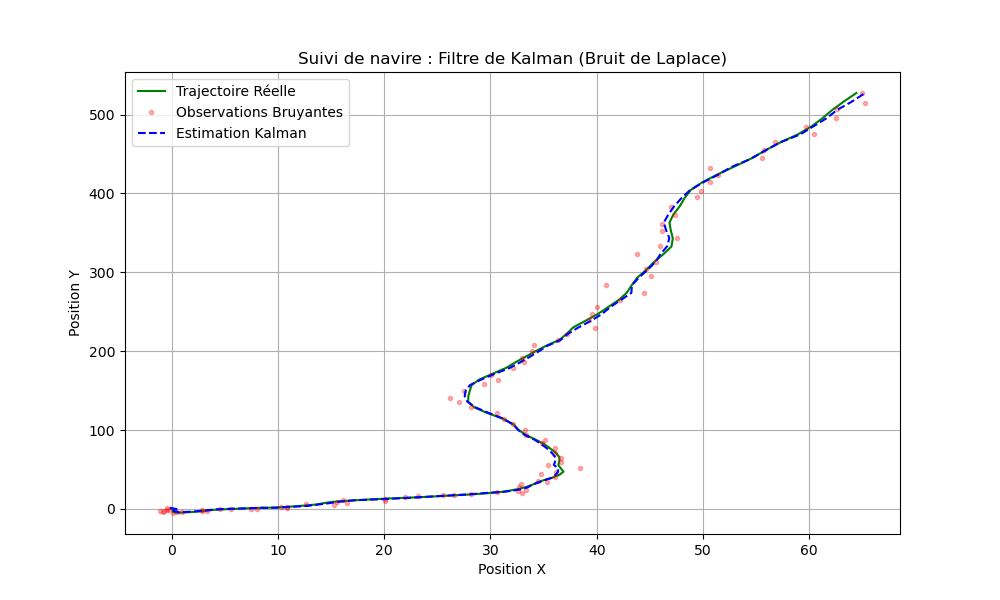
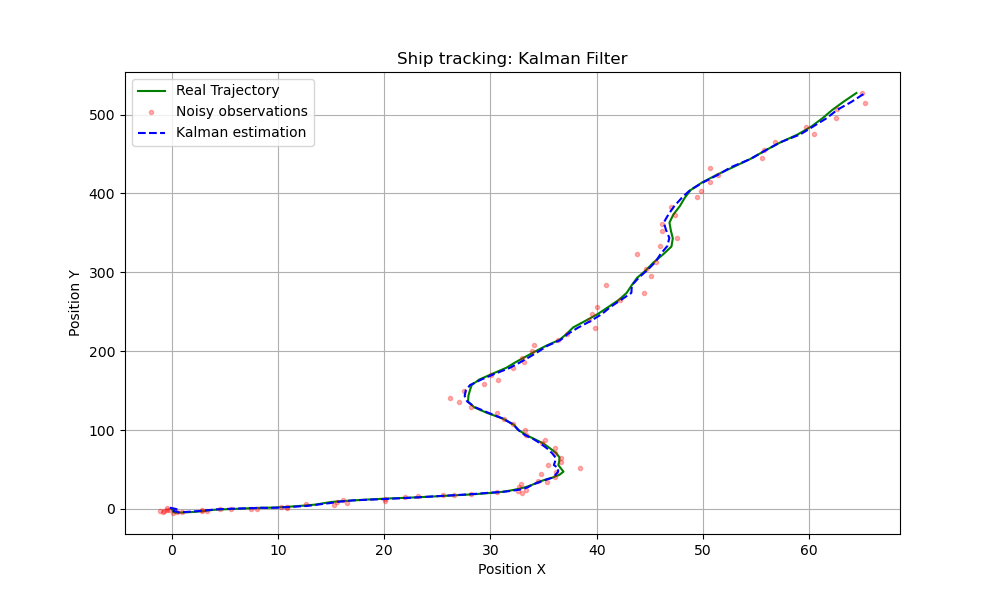
merged both filters

Changed region(s): [[0.155, 0.12, 0.341, 0.24], [0.31, 0.09, 0.744, 0.12]]

diff --git a/part2/part2.py b/part2/part2.py
@@ -8,6 +8,69 @@ u_input = np.loadtxt("Input.txt")
 s_true = x_true_all[:, :2]
 
 
+def kalman_filter(T=100, dt=0.1):
+    # Paramètres du projet
+    mu_laplace = 1.0
+    b_laplace = 1.0
+    sigma_v2 = 1.0
+
+    # 2. Définition des matrices du modèle (Espace d'état)
+    # État X = [x, y, vx, vy]
+    A = np.array([[1, 0, dt, 0], [0, 1, 0, dt], [0, 0, 1, 0], [0, 0, 0, 1]])
+
+    B = np.array([[0.5 * dt**2, 0], [0, 0.5 * dt**2], [dt, 0], [0, dt]])
+
+    # Matrice G pour le bruit d'accélération (c'est la même que b prcq le bruit est une accélération)
+    G = B.copy()
+
+    # Matrice d'observation H
+    H = np.array([[1, 0, 0, 0], [0, 1, 0, 0]])
+
+    # 3. Covariances du bruit
+    # Q = 2 * b^2 * G * G^T
+    Q = 2 * (b_laplace**2) * (G @ G.T)
+
+    # R = sigma_v^2 * I (2x2)
+    R = np.eye(2) * sigma_v2
+
+    # 4. Initialisation du filtre
+    X_hat = np.array([10.0, 10.0, 10.0, 10.0])  # Moyennes s0 et v0
+    P = np.diag([50.0, 50.0, 10.0, 10.0])  # P0_pos=50, P0_vel=10
+
+    # Stockage des résultats
+    estimations = []
+
+    # 5. Boucle du Filtre de Kalman
+    for k in range(T):
+        u_k = u_input[k]
+        z_k = x_obs[k]
+
+        # --- ÉTAPE DE PRÉDICTION ---
+        # Modification pour le bruit de Laplace non centré (mu=1)
+        shift_term = G @ np.array([mu_laplace, mu_laplace])
+        X_pred = A @ X_hat + B @ u_k + shift_term
+        P_pred = A @ P @ A.T + Q
+
+        # --- ÉTAPE DE MISE À JOUR (Correction) ---
+        S = H @ P_pred @ H.T + R
+        K = P_pred @ H.T @ np.linalg.inv(S)
+
+        X_hat = X_pred + K @ (z_k - H @ X_pred)
+        P = (np.eye(4) - K @ H) @ P_pred
+
+        estimations.append(X_hat[:2])  # On garde (x, y)
+
+    estimations = np.array(estimations)
+
+    # --- 4. PERFORMANCE ---
+    error_vectors = s_true - estimations
+    squared_norms = np.sum(error_vectors**2, axis=1)
+    mse_kalman = np.mean(squared_norms)
+    error_over_time = np.sqrt(squared_norms)
+
+    return mse_kalman, error_over_time, estimations
+
+
 def SIR_particle_filter(N=1000, T=100, dt=0.1):
     """
     N = Number of particles
@@ -140,22 +203,31 @@ def main():
     os.makedirs(RESULTS, exist_ok=True)
 
     N_sizes = [10, 100, 1000, 5000]
-    M = 100
-    T = 100
+    M, T, dt = 100, 100, 0.1
     global_mse_results = []
 
-    # Figure for Error over Time
-    fig_error, ax_error = plt.subplots(figsize=(10, 6))
+    # --- 1. KALMAN FILTER EXECUTION AND PLOTTING ---
+    print("Running Kalman Filter...")
+    mse_k, err_k, estimations_k = kalman_filter(T, dt)
 
-    # Figure for Trajectory Comparison
+    plt.figure(figsize=(10, 6))
+    plt.plot(s_true[:, 0], s_true[:, 1], "g-", label="Real Trajectory")
+    plt.plot(x_obs[:, 0], x_obs[:, 1], "r.", alpha=0.3, label="Noisy observations")
+    plt.plot(estimations_k[:, 0], estimations_k[:, 1], "b--", label="Kalman estimation")
+    plt.xlabel("Position X")
+    plt.ylabel("Position Y")
+    plt.title("Ship tracking: Kalman Filter")
+    plt.legend()
+    plt.grid(True)
+    plt.savefig(os.path.join(RESULTS, "Kalman_Tracking_Result.png"))
+    plt.show()
+
+    # --- 2. SIR PARTICLE FILTERS EXECUTION ---
+    fig_error, ax_error = plt.subplots(figsize=(10, 6))
     fig_traj, ax_traj = plt.subplots(figsize=(10, 8))
+
     ax_traj.plot(
-        s_true[:, 0],
-        s_true[:, 1],
-        "g-",
-        linewidth=3,
-        label="Vraie trajectoire",
-        zorder=5,
+        s_true[:, 0], s_true[:, 1], "g-", linewidth=3, label="Real trajectory", zorder=5
     )
     ax_traj.scatter(
         x_obs[:, 0],
@@ -163,41 +235,36 @@ def main():
         color="red",
         s=5,
         alpha=0.2,
-        label="Observations bruitées",
+        label="Noisy observations",
         zorder=1,
     )
 
     for N in N_sizes:
         print(f"Running simulation for N = {N} particles...")
-
         all_MSE = np.empty(M)
         all_errors_over_time = np.empty((M, T))
         all_trajectories = np.empty((M, T, 2))
 
         for i in range(M):
             all_MSE[i], all_errors_over_time[i], all_trajectories[i] = (
-                SIR_particle_filter(N, T)
+                SIR_particle_filter(N, T, dt)
             )
 
-        # Calculate Averages
         avg_mse = np.mean(all_MSE)
         global_mse_results.append(avg_mse)
         avg_error_over_time = np.mean(all_errors_over_time, axis=0)
         avg_trajectory = np.mean(all_trajectories, axis=0)
 
-        # Add to Combined Error Plot
         ax_error.plot(avg_error_over_time, label=f"N = {N}")
-
-        # Add to Combined Trajectory Plot
         ax_traj.plot(
             avg_trajectory[:, 0],
             avg_trajectory[:, 1],
             "--",
             linewidth=1.5,
-            label=f"Estimation SIR (N={N})",
+            label=f"SIR estimation (N={N})",
         )
 
-    # --- 3. ERROR PLOT ---
+    # --- 3. SIR PLOTS ---
     ax_error.set_title(f"Comparison of Mean Position Error (M={M} trials)")
     ax_error.set_xlabel("Time Step")
     ax_error.set_ylabel("Euclidean Distance Error")
@@ -206,23 +273,25 @@ def main():
     fig_error.savefig(os.path.join(RESULTS, "combined_SIR_error_plot.png"))
     plt.close(fig_error)
 
-    # --- 4. TRAJECTORY PLOT ---
-    ax_traj.set_title(f"Suivi de navire: Comparaison des filtres SIR (M={M})")
+    ax_traj.set_title(f"Ship tracking: Particle Filter over {M} experiments")
     ax_traj.set_xlabel("Position X (m)")
     ax_traj.set_ylabel("Position Y (m)")
     ax_traj.legend(loc="best")
     ax_traj.grid(True, linestyle=":", alpha=0.6)
     fig_traj.savefig(os.path.join(RESULTS, "combined_SIR_trajectories.png"))
+    plt.show()
     plt.close(fig_traj)
 
-    # --- 5. MSE vs N ---
+    # --- 4. SIR CONVERGENCE ANALYSIS ---
     plt.figure(figsize=(8, 6))
     plt.loglog(N_sizes, global_mse_results, "o-r", linewidth=2)
-    plt.title("Filter Convergence: Global MSE vs. Number of Particles")
+    plt.title("SIR Filter Convergence: Global MSE vs. Number of Particles")
     plt.xlabel("Number of Particles (Np)")
     plt.ylabel("Mean Square Error (MSE)")
     plt.grid(True, which="both", ls="-", alpha=0.5)
     plt.savefig(os.path.join(RESULTS, "SIR_convergence_analysis.png"))
+
+    print("Done.")
 
 
 if __name__ == "__main__":

diff --git a/part2/Kalman.py b/part2/Kalman.py
@@ -1,48 +1,40 @@
 import numpy as np
 import matplotlib.pyplot as plt
 
-# 1. Chargement des données [cite: 298]
-# Assurez-vous que les fichiers .txt sont dans le même répertoire
-true_data = np.loadtxt('True_data.txt')
-observations = np.loadtxt('Observation.txt')
-inputs = np.loadtxt('Input.txt')
+# 1. Chargement des données
+true_data = np.loadtxt("True_data.txt")
+observations = np.loadtxt("Observation.txt")
+inputs = np.loadtxt("Input.txt")
 
-# Paramètres du projet 
+# Paramètres du projet
 dt = 0.1
 N = 100
 mu_laplace = 1.0
 b_laplace = 1.0
 sigma_v2 = 1.0
 
-# 2. Définition des matrices du modèle (Espace d'état) 
+# 2. Définition des matrices du modèle (Espace d'état)
 # État X = [x, y, vx, vy]
-A = np.array([[1, 0, dt, 0],
-              [0, 1, 0, dt],
-              [0, 0, 1, 0],
-              [0, 0, 0, 1]])
+A = np.array([[1, 0, dt, 0], [0, 1, 0, dt], [0, 0, 1, 0], [0, 0, 0, 1]])
 
-B = np.array([[0.5 * dt**2, 0],
-              [0, 0.5 * dt**2],
-              [dt, 0],
-              [0, dt]])
+B = np.array([[0.5 * dt**2, 0], [0, 0.5 * dt**2], [dt, 0], [0, dt]])
 
 # Matrice G pour le bruit d'accélération (c'est la même que b prcq le bruit est une accélération)
-G = B.copy() 
+G = B.copy()
 
-# Matrice d'observation H 
-H = np.array([[1, 0, 0, 0],
-              [0, 1, 0, 0]])
+# Matrice d'observation H
+H = np.array([[1, 0, 0, 0], [0, 1, 0, 0]])
 
-# 3. Covariances du bruit 
+# 3. Covariances du bruit
 # Q = 2 * b^2 * G * G^T
 Q = 2 * (b_laplace**2) * (G @ G.T)
 
 # R = sigma_v^2 * I (2x2)
 R = np.eye(2) * sigma_v2
 
-# 4. Initialisation du filtre 
-X_hat = np.array([10.0, 10.0, 10.0, 10.0]) # Moyennes s0 et v0
-P = np.diag([50.0, 50.0, 10.0, 10.0])      # P0_pos=50, P0_vel=10
+# 4. Initialisation du filtre
+X_hat = np.array([10.0, 10.0, 10.0, 10.0])  # Moyennes s0 et v0
+P = np.diag([50.0, 50.0, 10.0, 10.0])  # P0_pos=50, P0_vel=10
 
 # Stockage des résultats
 estimations = []
@@ -51,38 +43,45 @@ estimations = []
 for k in range(N):
     u_k = inputs[k]
     z_k = observations[k]
-    
+
     # --- ÉTAPE DE PRÉDICTION ---
-    # Modification pour le bruit de Laplace non centré (mu=1) 
+    # Modification pour le bruit de Laplace non centré (mu=1)
     shift_term = G @ np.array([mu_laplace, mu_laplace])
     X_pred = A @ X_hat + B @ u_k + shift_term
     P_pred = A @ P @ A.T + Q
-    
+
     # --- ÉTAPE DE MISE À JOUR (Correction) ---
     S = H @ P_pred @ H.T + R
     K = P_pred @ H.T @ np.linalg.inv(S)
-    
+
     X_hat = X_pred + K @ (z_k - H @ X_pred)
     P = (np.eye(4) - K @ H) @ P_pred
-    
-    estimations.append(X_hat[:2]) # On garde (x, y)
+
+    estimations.append(X_hat[:2])  # On garde (x, y)
 
 estimations = np.array(estimations)
 
-# 6. Calcul de la performance (MSE) 
+# 6. Calcul de la performance (MSE)
 true_pos = true_data[:, :2]
-mse = np.mean(np.sum((true_pos - estimations)**2, axis=1))
+mse = np.mean(np.sum((true_pos - estimations) ** 2, axis=1))
 print(f"Mean Square Error (MSE): {mse:.4f}")
 
-# 7. Visualisation 
+# 7. Visualisation
 plt.figure(figsize=(10, 6))
-plt.plot(true_pos[:, 0], true_pos[:, 1], 'g-', label='Trajectoire Réelle')
-plt.plot(observations[:, 0], observations[:, 1], 'r.', alpha=0.3, label='Observations Bruyantes')
-plt.plot(estimations[:, 0], estimations[:, 1], 'b--', label='Estimation Kalman')
-plt.xlabel('Position X')
-plt.ylabel('Position Y')
-plt.title('Suivi de navire : Filtre de Kalman (Bruit de Laplace)')
+plt.plot(true_pos[:, 0], true_pos[:, 1], "g-", label="Trajectoire Réelle")
+plt.plot(
+    observations[:, 0],
+    observations[:, 1],
+    "r.",
+    alpha=0.3,
+    label="Observations Bruyantes",
+)
+plt.plot(estimations[:, 0], estimations[:, 1], "b--", label="Estimation Kalman")
+plt.xlabel("Position X")
+plt.ylabel("Position Y")
+plt.title("Suivi de navire : Filtre de Kalman (Bruit de Laplace)")
 plt.legend()
 plt.grid(True)
-plt.savefig('results/Kalman_Tracking_Result.png')
+plt.savefig("results/Kalman_Tracking_Result.png")
 plt.show()
+
